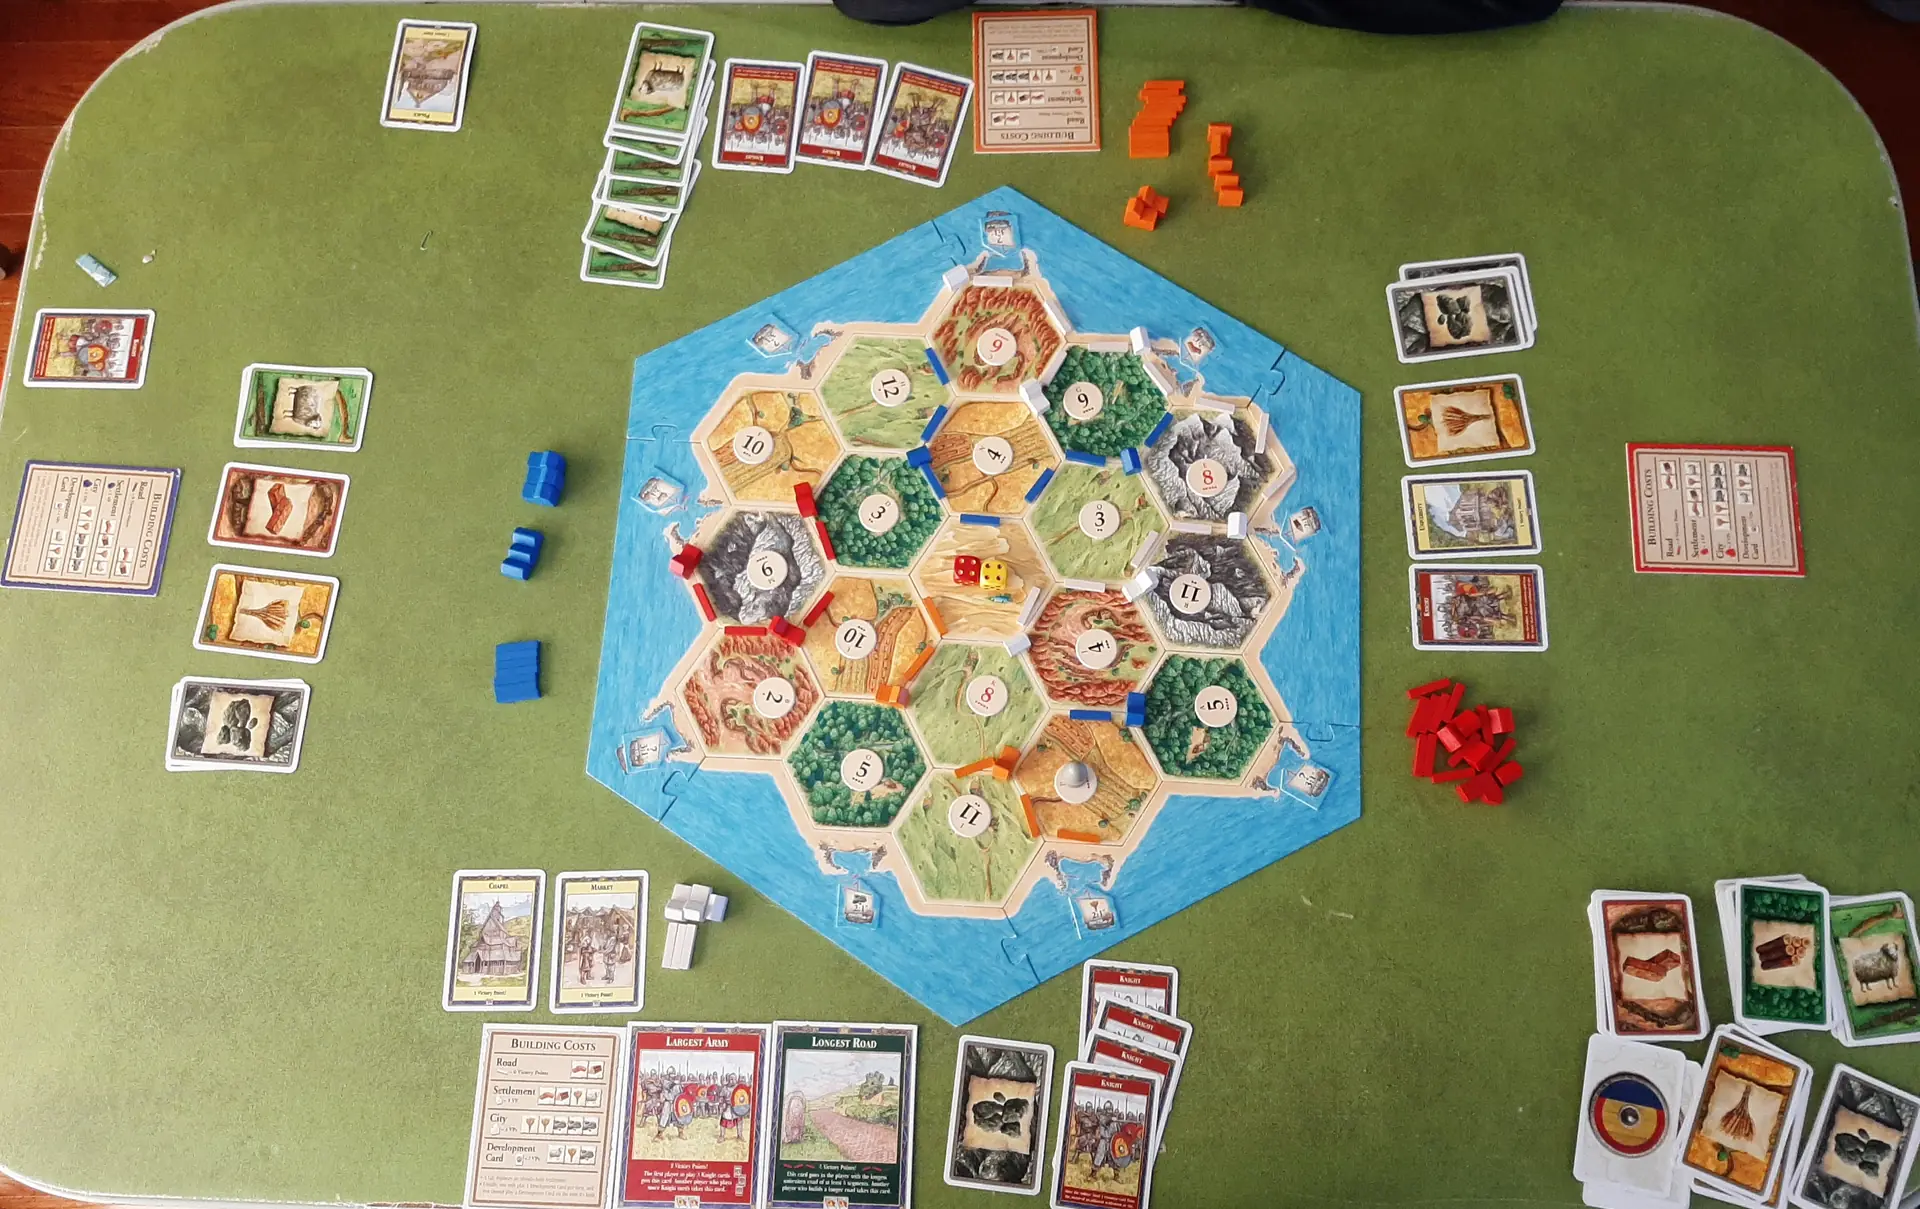
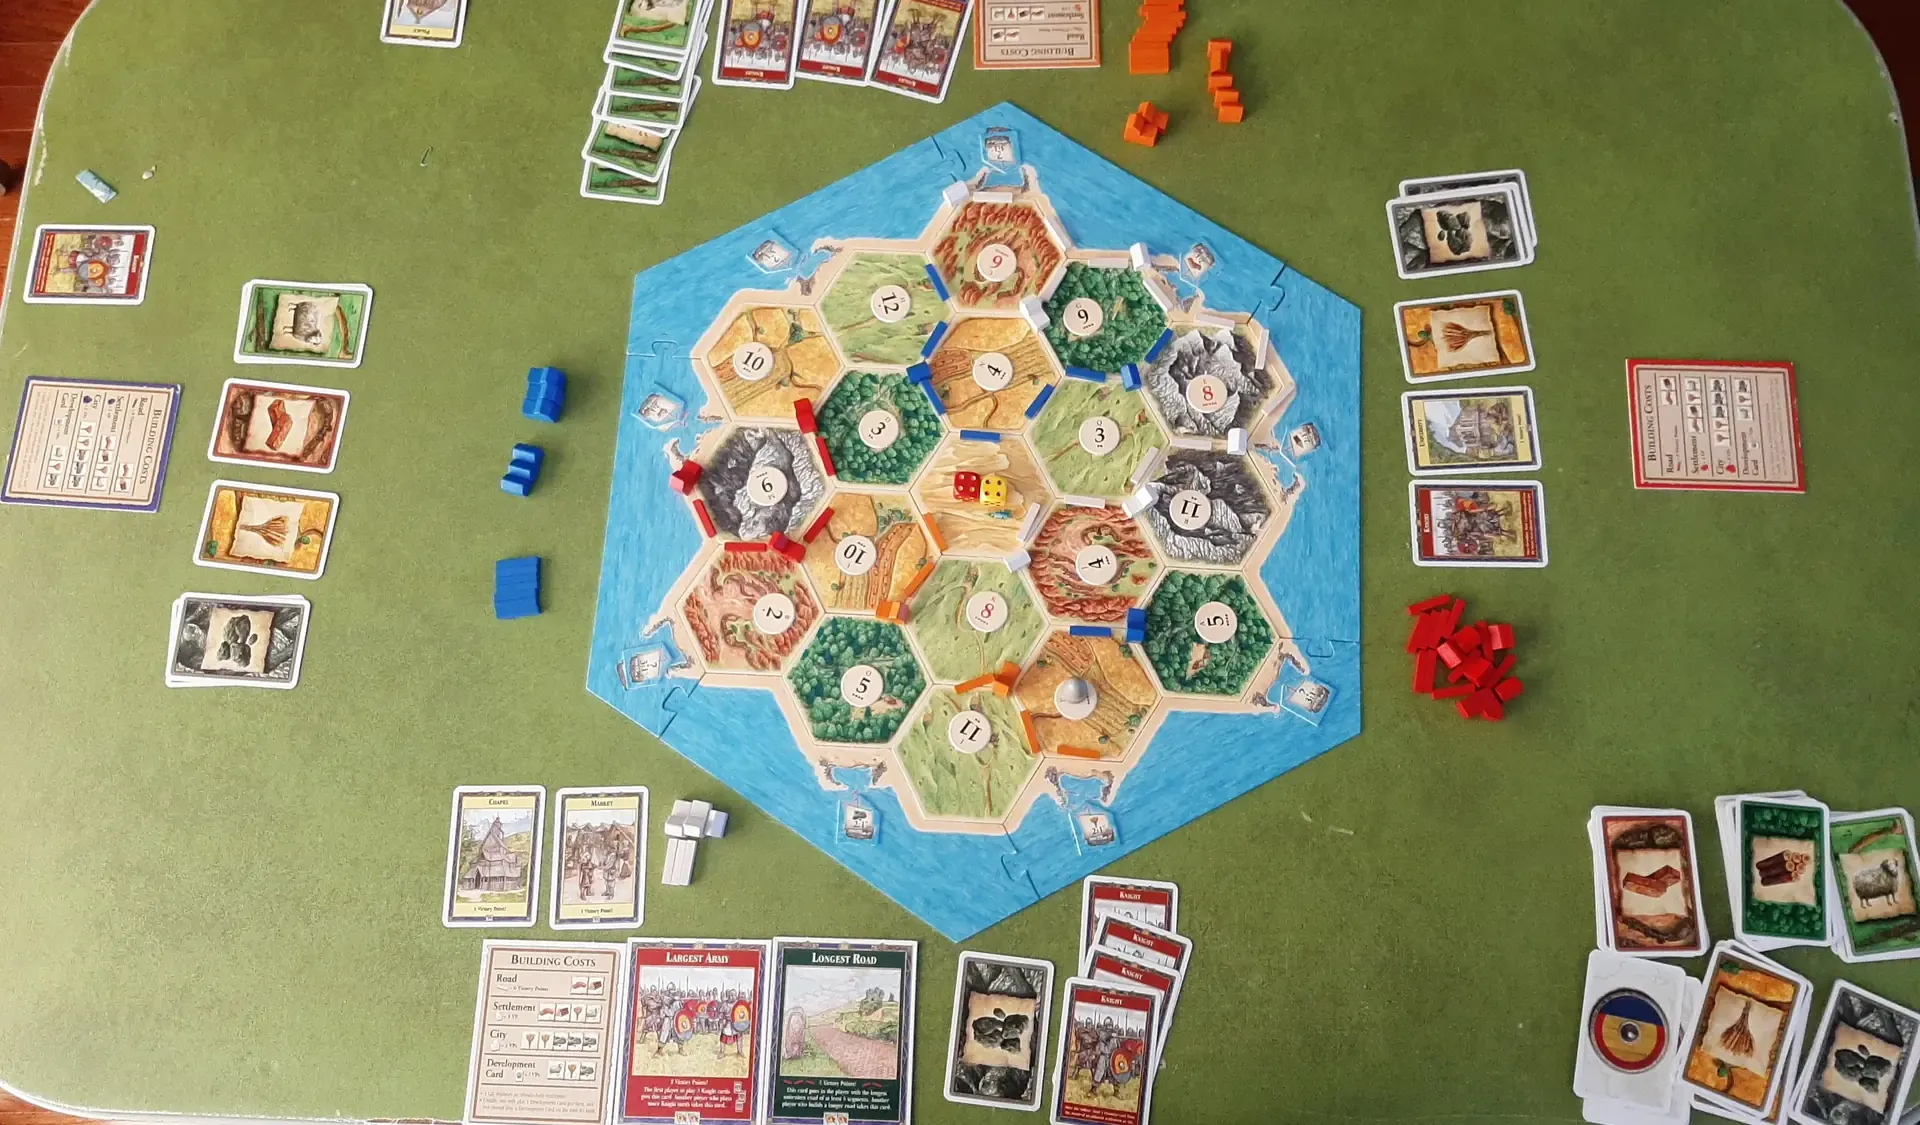
fix(landing): crop a person out of the top edge of the Catan background
The owner asked for no people in the board-game photo; the chosen image
still showed someone's clothing along its top edge. Crop 7% off the top
and record the modification in CREDITS.md, as CC BY-SA requires.

diff --git a/apps/web/public/backgrounds/CREDITS.md b/apps/web/public/backgrounds/CREDITS.md
@@ -99,7 +99,7 @@ License: CC BY-SA 4.0 (Creative Commons Attribution-ShareAlike 4.0 International
 License URL: https://creativecommons.org/licenses/by-sa/4.0/
 License grant (quoted): "Share — copy and redistribute the material in any medium or format for any purpose, even commercially." (from the license deed's "You are free to:" section; the deed's "Under the following terms:" section additionally requires attribution and ShareAlike, both honored by this credit file)
 Retrieved: 2026-09-19
-Modifications: resized to 1920px wide (1920x1209), re-encoded as WebP quality 75 (~265,000 bytes)
+Modifications: resized to 1920px wide (1920x1209), cropped 7% from the top to remove a person standing at the table edge (owner asked for no people in the photo), giving 1920x1125, re-encoded as WebP (~265,000 bytes)
 
 Verified via the Wikimedia Commons API (`action=query&prop=imageinfo&iiprop=extmetadata`) against
 https://commons.wikimedia.org/wiki/File:Settlers_of_Catan_completed.jpg, which returned
